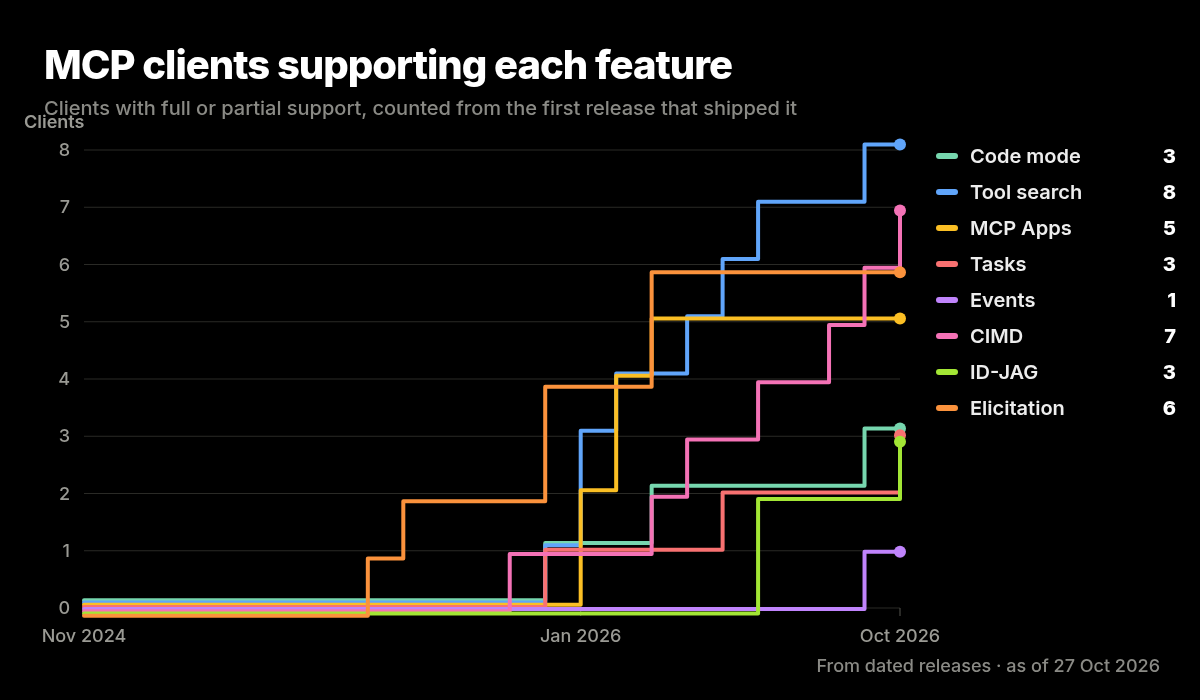
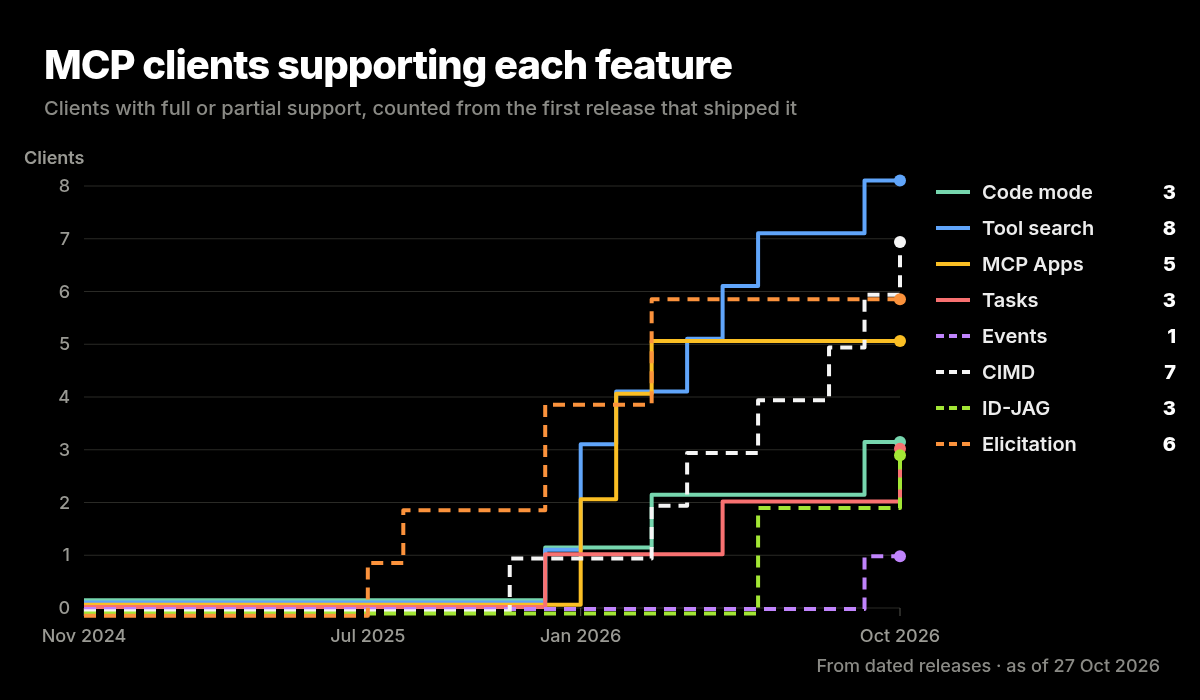
fix: harden validation, check image freshness, add client badges
- Validate real calendar dates, spec_versions order, bug_window_start,
  tracker keys, tool search quality, and URLs that decodeURI accepts
- npm run check compares a hash of each image's source HTML, so stale
  PNGs fail CI (assets/images.json)
- Adoption charts: eight distinct hues, dashed second half, y label no
  longer under the subtitle, July ticks on the x axis
- Matrix headings and tracks follow data/features.yaml; tier board
  items shrink instead of overflowing past three per cell
- Probe report no longer claims agreement from a discover list without
  a requested version; bugs script logs gh errors and fails faster
- Pin checkout and setup-node to commit SHAs, no persisted credentials
- Per-client tier badges in assets/badges/ with a README snippet
- ROOT via fileURLToPath so paths with spaces work

diff --git a/CONTRIBUTING.md b/CONTRIBUTING.md
@@ -7,7 +7,7 @@ There are two ways to send one.
 ## Option 1: open a pull request
 
 1. Edit your client's file in [data/clients/](data/clients/), for example `data/clients/claude-code.yaml`. The fields are listed below and in [data/README.md](data/README.md).
-2. Run `npm ci && npm run build`. This validates the data and regenerates the README sections, [EVIDENCE.md](EVIDENCE.md), the history snapshot and the images. Images need Chrome; without it run `npm run build -- --no-images` and say so in the pull request, and a maintainer will rebuild them.
+2. Run `npm ci && npm run build`. This validates the data and regenerates the README sections, [EVIDENCE.md](EVIDENCE.md), the history snapshot and the images. Images need Chrome. Without it, run `npm run build -- --no-images` and say so in the pull request: CI fails on the out of date images until a maintainer rebuilds them.
 3. Open a pull request and fill in the checklist. CI runs `npm run check`, which fails if the data is invalid or a generated file is stale.
 
 ## Option 2: file the evidence form
@@ -60,6 +60,16 @@ Other fields you can update: `version_checked` (the version you checked against)
 2. Add a square logo (SVG preferred) to [assets/logos/](assets/logos/) and set `logo`.
 3. Fill in all nine cells with sources, and set `tier` to the tier [the rubric](methodology/RUBRIC.md) gives. The build prints the expected tier if it does not match.
 4. Run `npm run build` and open a pull request.
+
+## Badge for your README
+
+Each build writes a badge per client to [assets/badges/](assets/badges/), named by the slug, that shows the client's current tier. To show it in your own README:
+
+```markdown
+[![MCP clients scorecard](https://raw.githubusercontent.com/StackOneHQ/mcp-clients-scorecard/main/assets/badges/claude-code.svg)](https://github.com/StackOneHQ/mcp-clients-scorecard#scorecard)
+```
+
+Replace `claude-code` with your slug. The badge changes when the table does.
 
 ## Tiers
 

diff --git a/README.md b/README.md
@@ -178,6 +178,7 @@ flowchart LR
 
 - **Pull request**: edit your client's file in [data/clients/](data/clients/), run `npm ci && npm run build`, and open a pull request. [CONTRIBUTING.md](CONTRIBUTING.md) lists the fields and the evidence we accept.
 - **Issue form**: [submit evidence](../../issues/new?template=submit-evidence.yml) with the feature, the value you claim and a source link. We check it and open the pull request.
+- **Badge**: every client gets a badge in [assets/badges/](assets/badges/) that follows its tier. [CONTRIBUTING.md](CONTRIBUTING.md#badge-for-your-readme) has the snippet.
 - **New client**: copy any file in [data/clients/](data/clients/), add a logo to [assets/logos/](assets/logos/), and fill in all nine cells.
 
 ## Methodology
@@ -213,9 +214,9 @@ Field reference for every data file: [data/README.md](data/README.md).
 
 | Command | What it does |
 | --- | --- |
-| `npm run build` | Regenerates the README sections, EVIDENCE.md, the history snapshot and the PNGs (needs Chrome, or `CHROME_PATH`) |
+| `npm run build` | Regenerates the README sections, EVIDENCE.md, the history snapshot, the badges and the PNGs (needs Chrome, or `CHROME_PATH`) |
 | `npm run build -- --no-images` | The same, without the PNGs |
-| `npm run check` | Validates the data and fails if a generated file is stale |
+| `npm run check` | Validates the data and fails if a generated file or image is stale |
 | `npm run bugs` | Recounts MCP issues per tracker with the GitHub search API (needs `gh`, signed in) |
 | `npm run probe` | Runs the live handshake probe against each CLI and writes `probe/results.json` |
 

diff --git a/EVIDENCE.md b/EVIDENCE.md
@@ -300,4 +300,4 @@ Tier **C** · App or IDE · MCP bugs fixed: no public tracker
 | ID-JAG | [![no](assets/icons/n.svg)](https://www.okta.com/newsroom/press-releases/okta-announces-cross-app-access-partners) | Not in Okta XAA partner list | changelog | 2026-10-27 |  |
 | Elicitation | [![no](assets/icons/n.svg)](https://docs.devin.ai/desktop/changelog) | Desktop v3.11.1108: "Improved handling for less common MCP server features" (unspecific) | changelog | 2026-10-27 |  |
 
-MCP bugs fixed is completed issues divided by issues minus duplicates, for issues opened since 2026-07-28 with "mcp" in the title. Below 20 issues the rate is not shown. Counts are in [data/bugs.json](data/bugs.json).
+MCP bugs fixed is completed issues divided by issues minus duplicates, for issues opened since 2026-07-28 with "mcp" in the title (every issue, for trackers that are only about MCP). Below 20 issues the rate is not shown. Counts are in [data/bugs.json](data/bugs.json).
